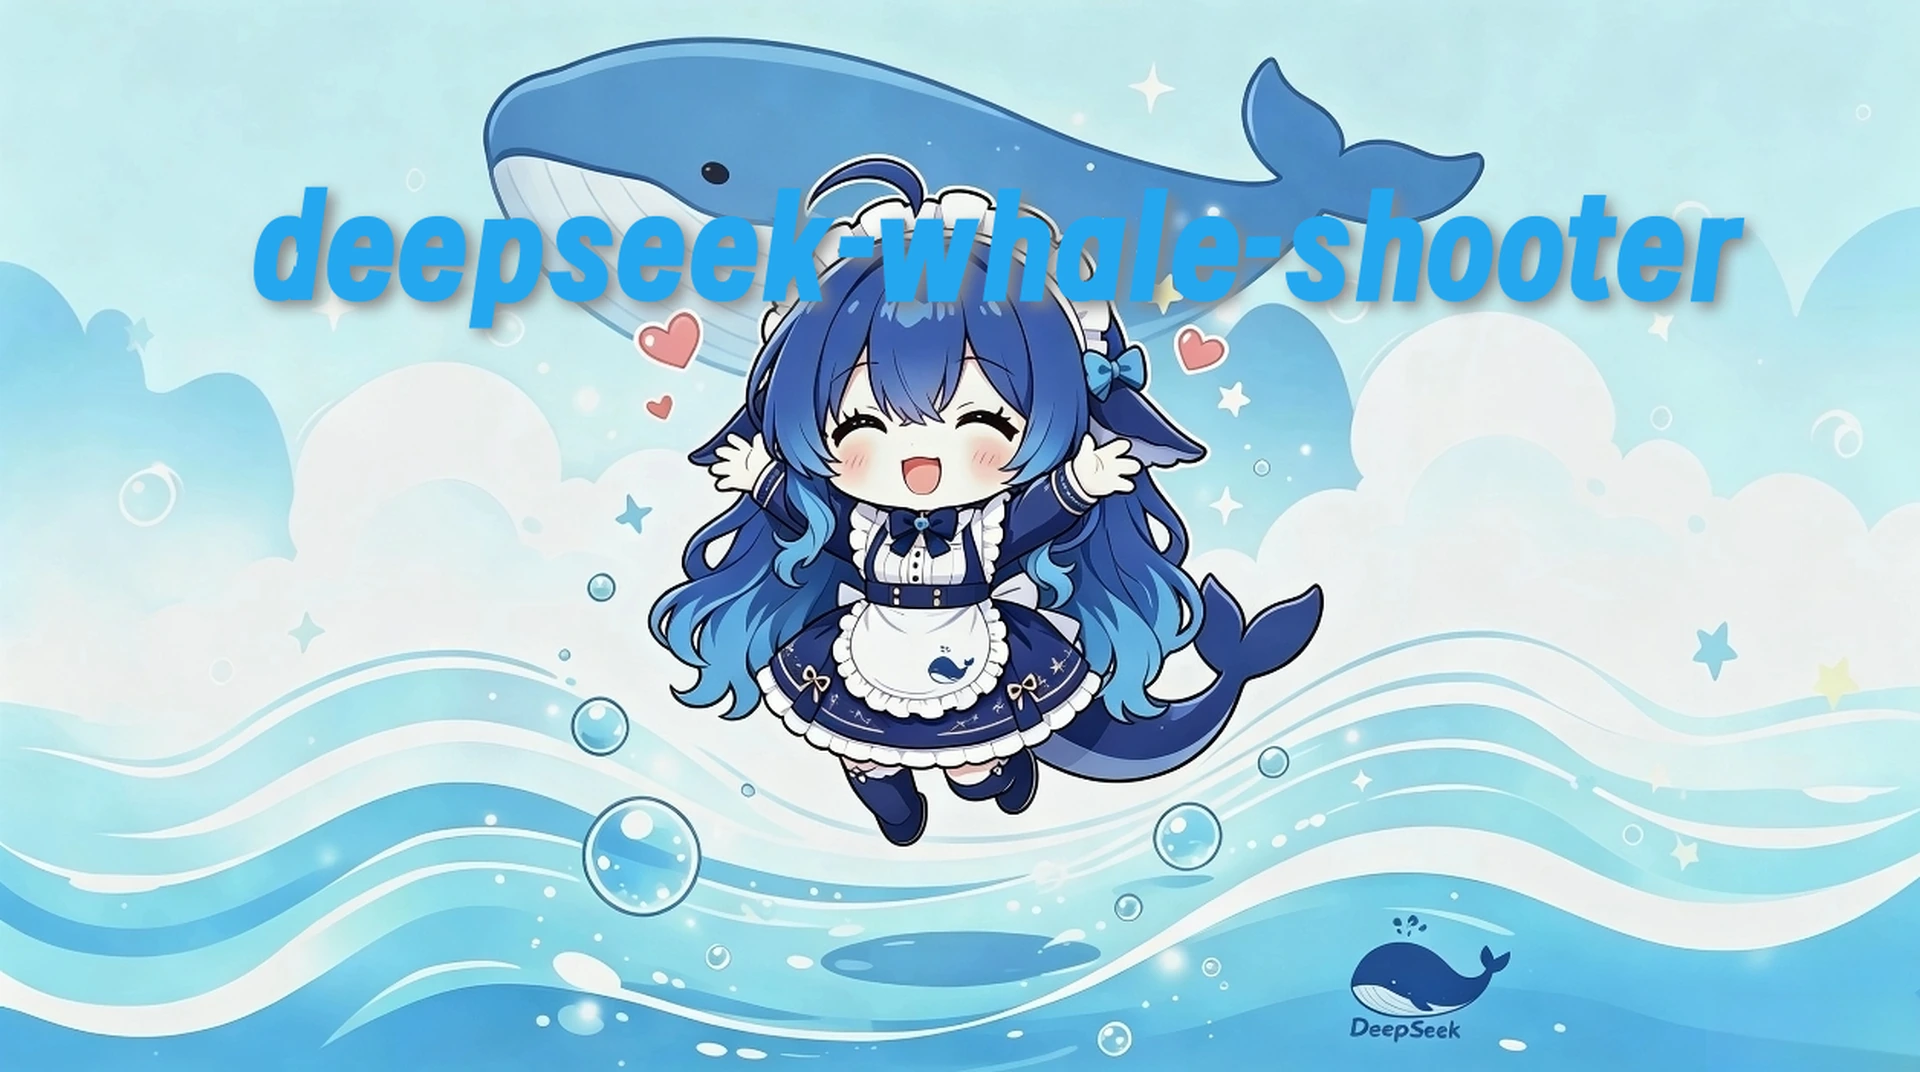
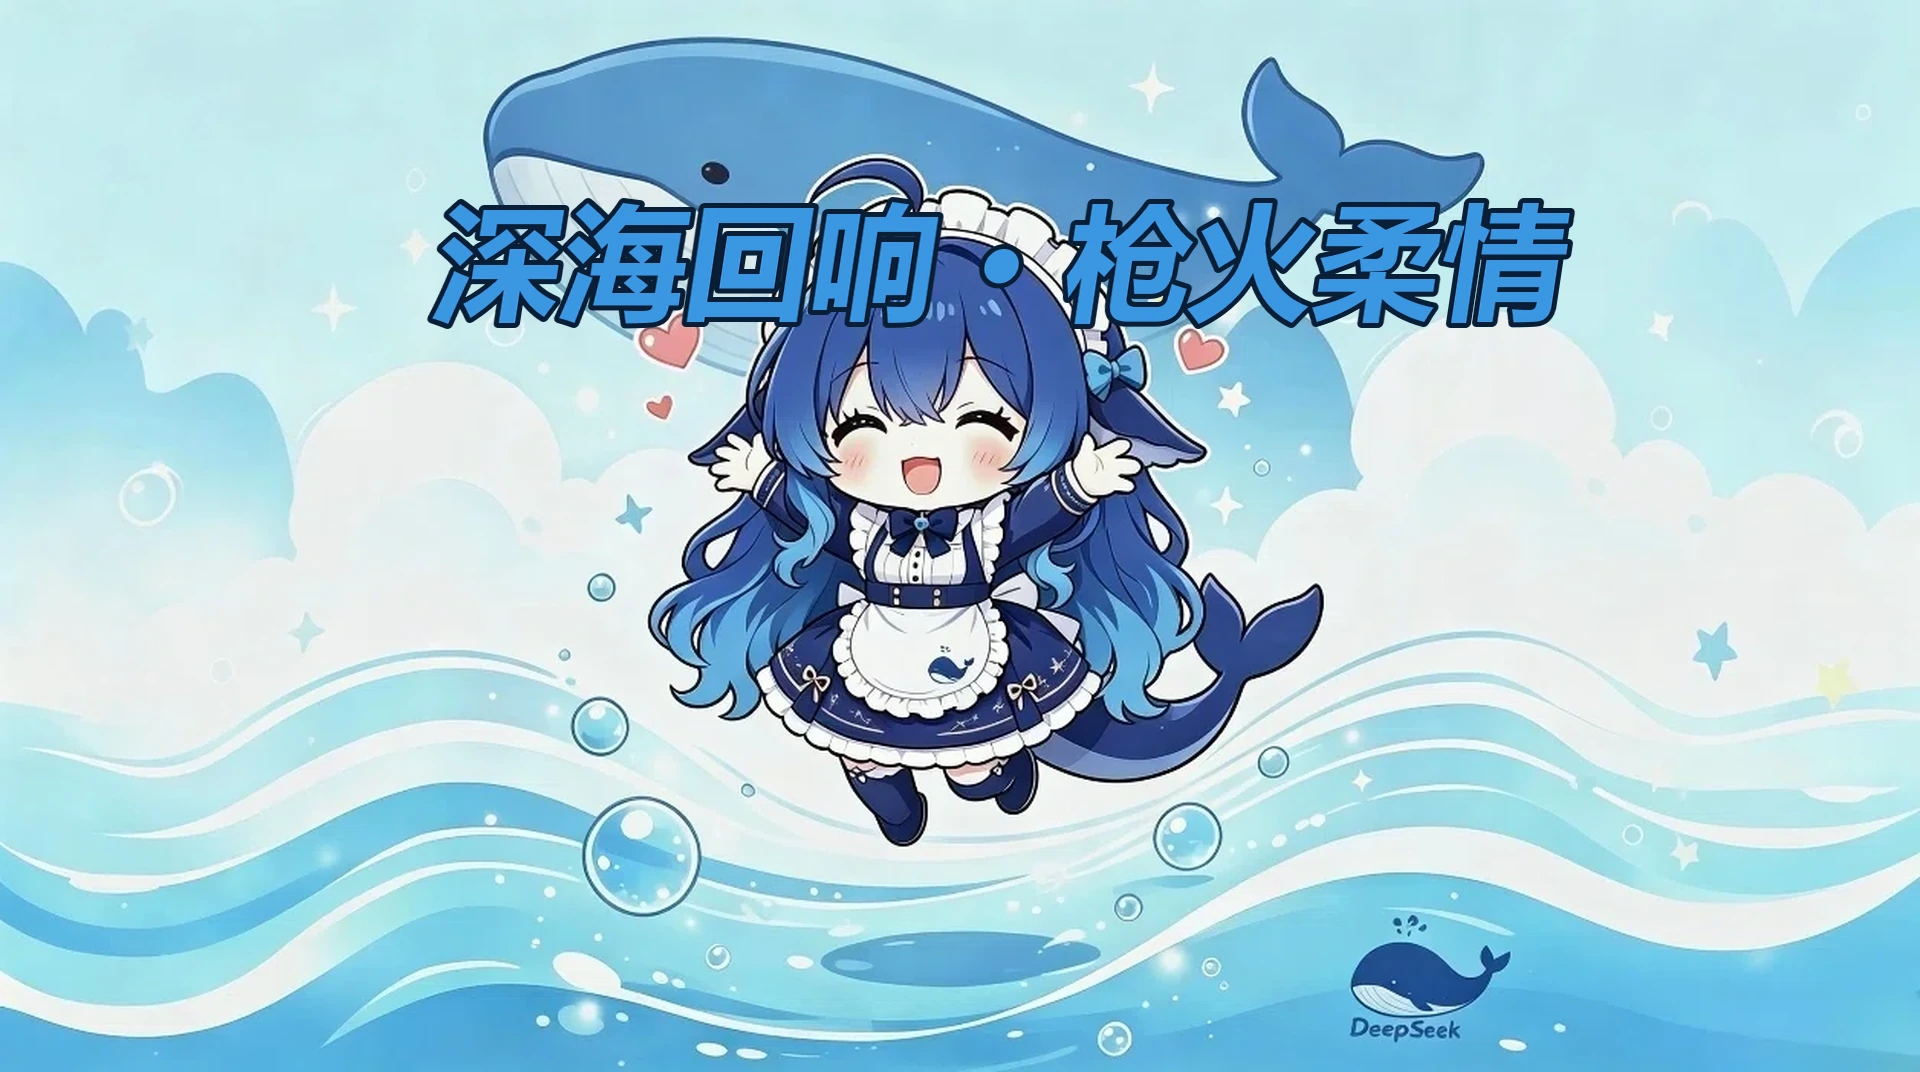
feat(boot): the splash wears the game's name now

Changed region(s): [[0.125, 0.1539, 0.9062, 0.3078]]

diff --git a/src/lib/boot-loading/layout.ts b/src/lib/boot-loading/layout.ts
@@ -8,10 +8,13 @@ export const LAYER_RECT = {
     bg: { x: 0, y: 0, w: 1920, h: 1072 },
     chars: { x: 487, y: 481, w: 970, h: 495 },
     fg: { x: 0, y: 739, w: 1920, h: 333 },
-    // The wordmark, extracted from the key art itself (its alpha was unmixed
-    // against a title-free plate of the same illustration), so bg + title
-    // re-stack to the key art. Spans the whole wordmark, unlike the upstream
-    // 809x317 pixel-title asset that used to live here.
+    // The wordmark: a separate transparent layer, so bg + title still re-stack to
+    // the key art (which is why `key.webp` is rebuilt whenever the title changes).
+    //
+    // It says 深海回响 · 枪火柔情 and is rendered type, not the painted wordmark the
+    // plate originally carried - the owner replaced the repo-name title on
+    // 2026-10-29. Swap this PNG again if the painted one is ever redrawn; the box
+    // below is the only thing that has to keep matching.
     title: { x: 235, y: 168, w: 1536, h: 190 },
 } as const satisfies Record<string, Rect>;
 
